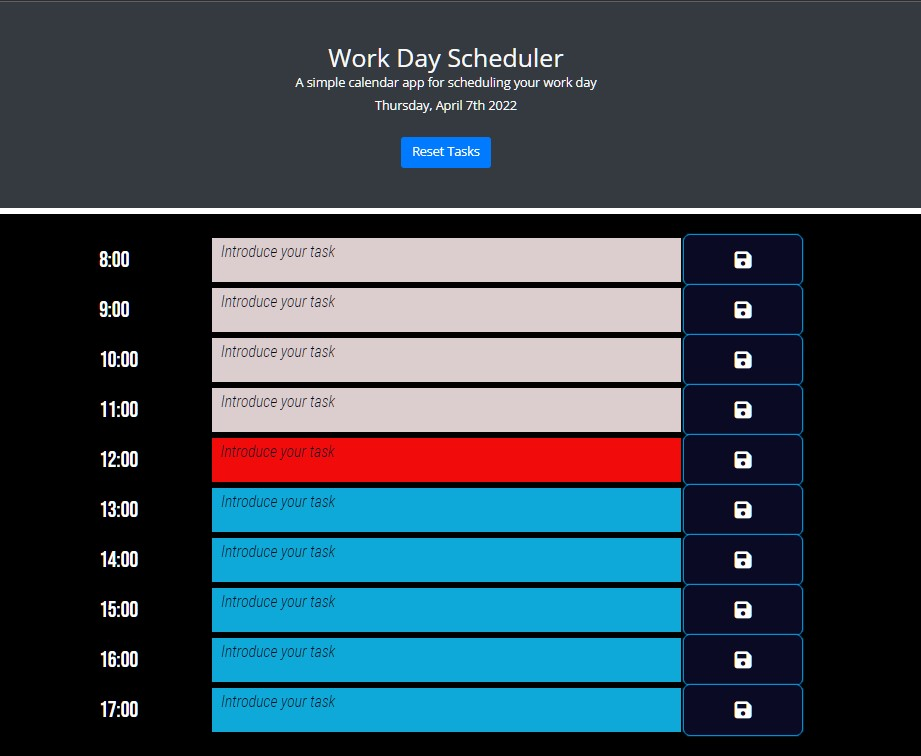
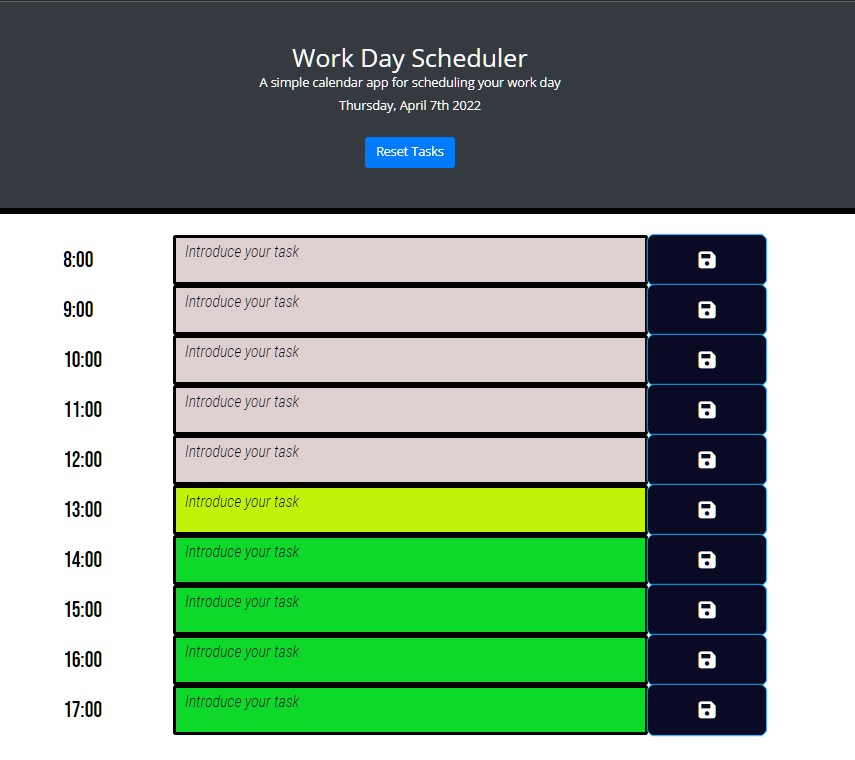
Color updates

diff --git a/Develop/style.css b/Develop/style.css
@@ -11,7 +11,7 @@ body {
   background-color: transparent;
   color: black;
   border-radius: 0;
-  border-bottom: 10px solid #fff;
+  border-bottom: 10px solid black;
 }
 
 .custom-btn {
@@ -53,16 +53,20 @@ textarea {
 }
 
 .hour {
-  background-color: #000000;
-  color: rgb(255, 255, 255);
+  background-color: #fff;
+  color: black;
   border-top: 1px solid #000000;
   font-size: 35px;
   margin: auto;
   text-align: left;
   font-family: 'Bebas Neue', cursive;
+  border-color: transparent;
 }
 
 @media screen and (max-width: 768px) {
+  ::placeholder {
+    font-size: 10px; 
+  }
   .hour {
     font-size: 20px;
   }
@@ -78,7 +82,7 @@ textarea {
 
 
 .present {
-  background-color: #f10c0c;
+  background-color: #c0f309;
   color: black;
   font-size: 25px;
   text-align: left;
@@ -86,7 +90,7 @@ textarea {
 }
 
 .future {
-  background-color: #0ea9d8;
+  background-color: #0ed829;
   color: black;
   font-size: 25px;
   text-align: left;

diff --git a/index.html b/index.html
@@ -34,7 +34,7 @@
    
   </head>
 
-  <body style="background-color:black">
+  <body style="background-color:#ffff">
 
     <!-- Jumbotron - Title -->
     <header class="jumbotron text-light bg-dark">
